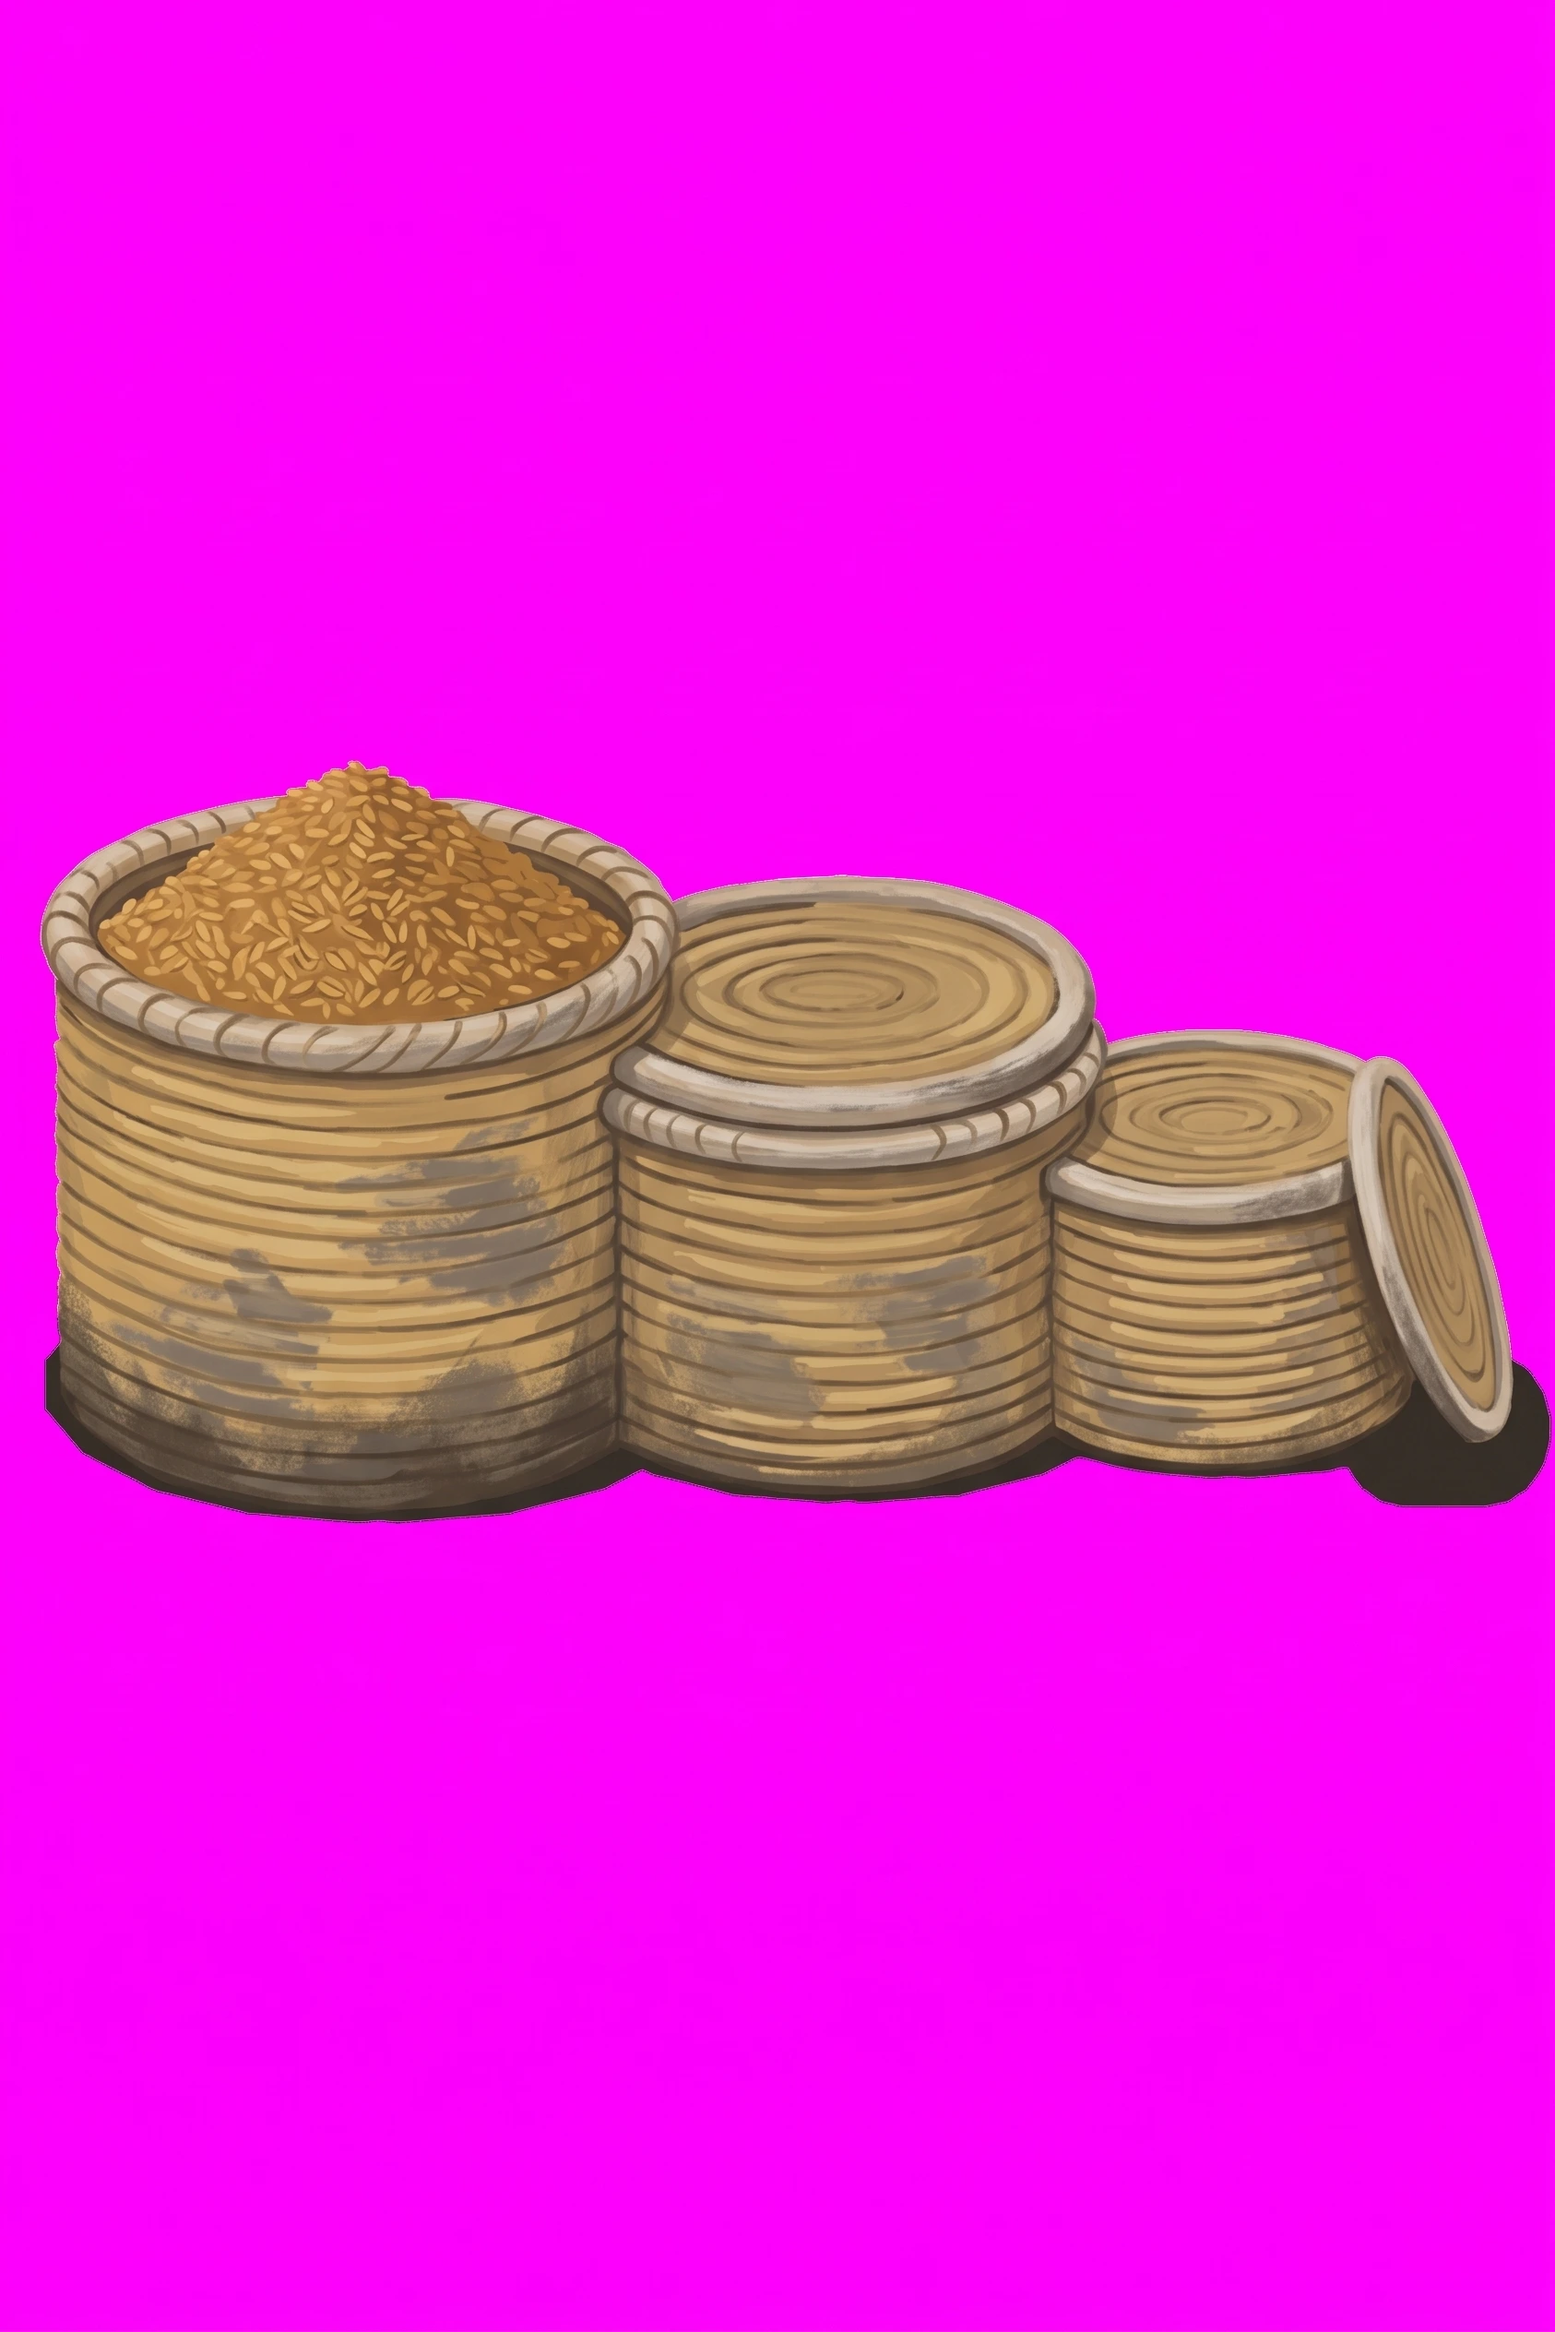
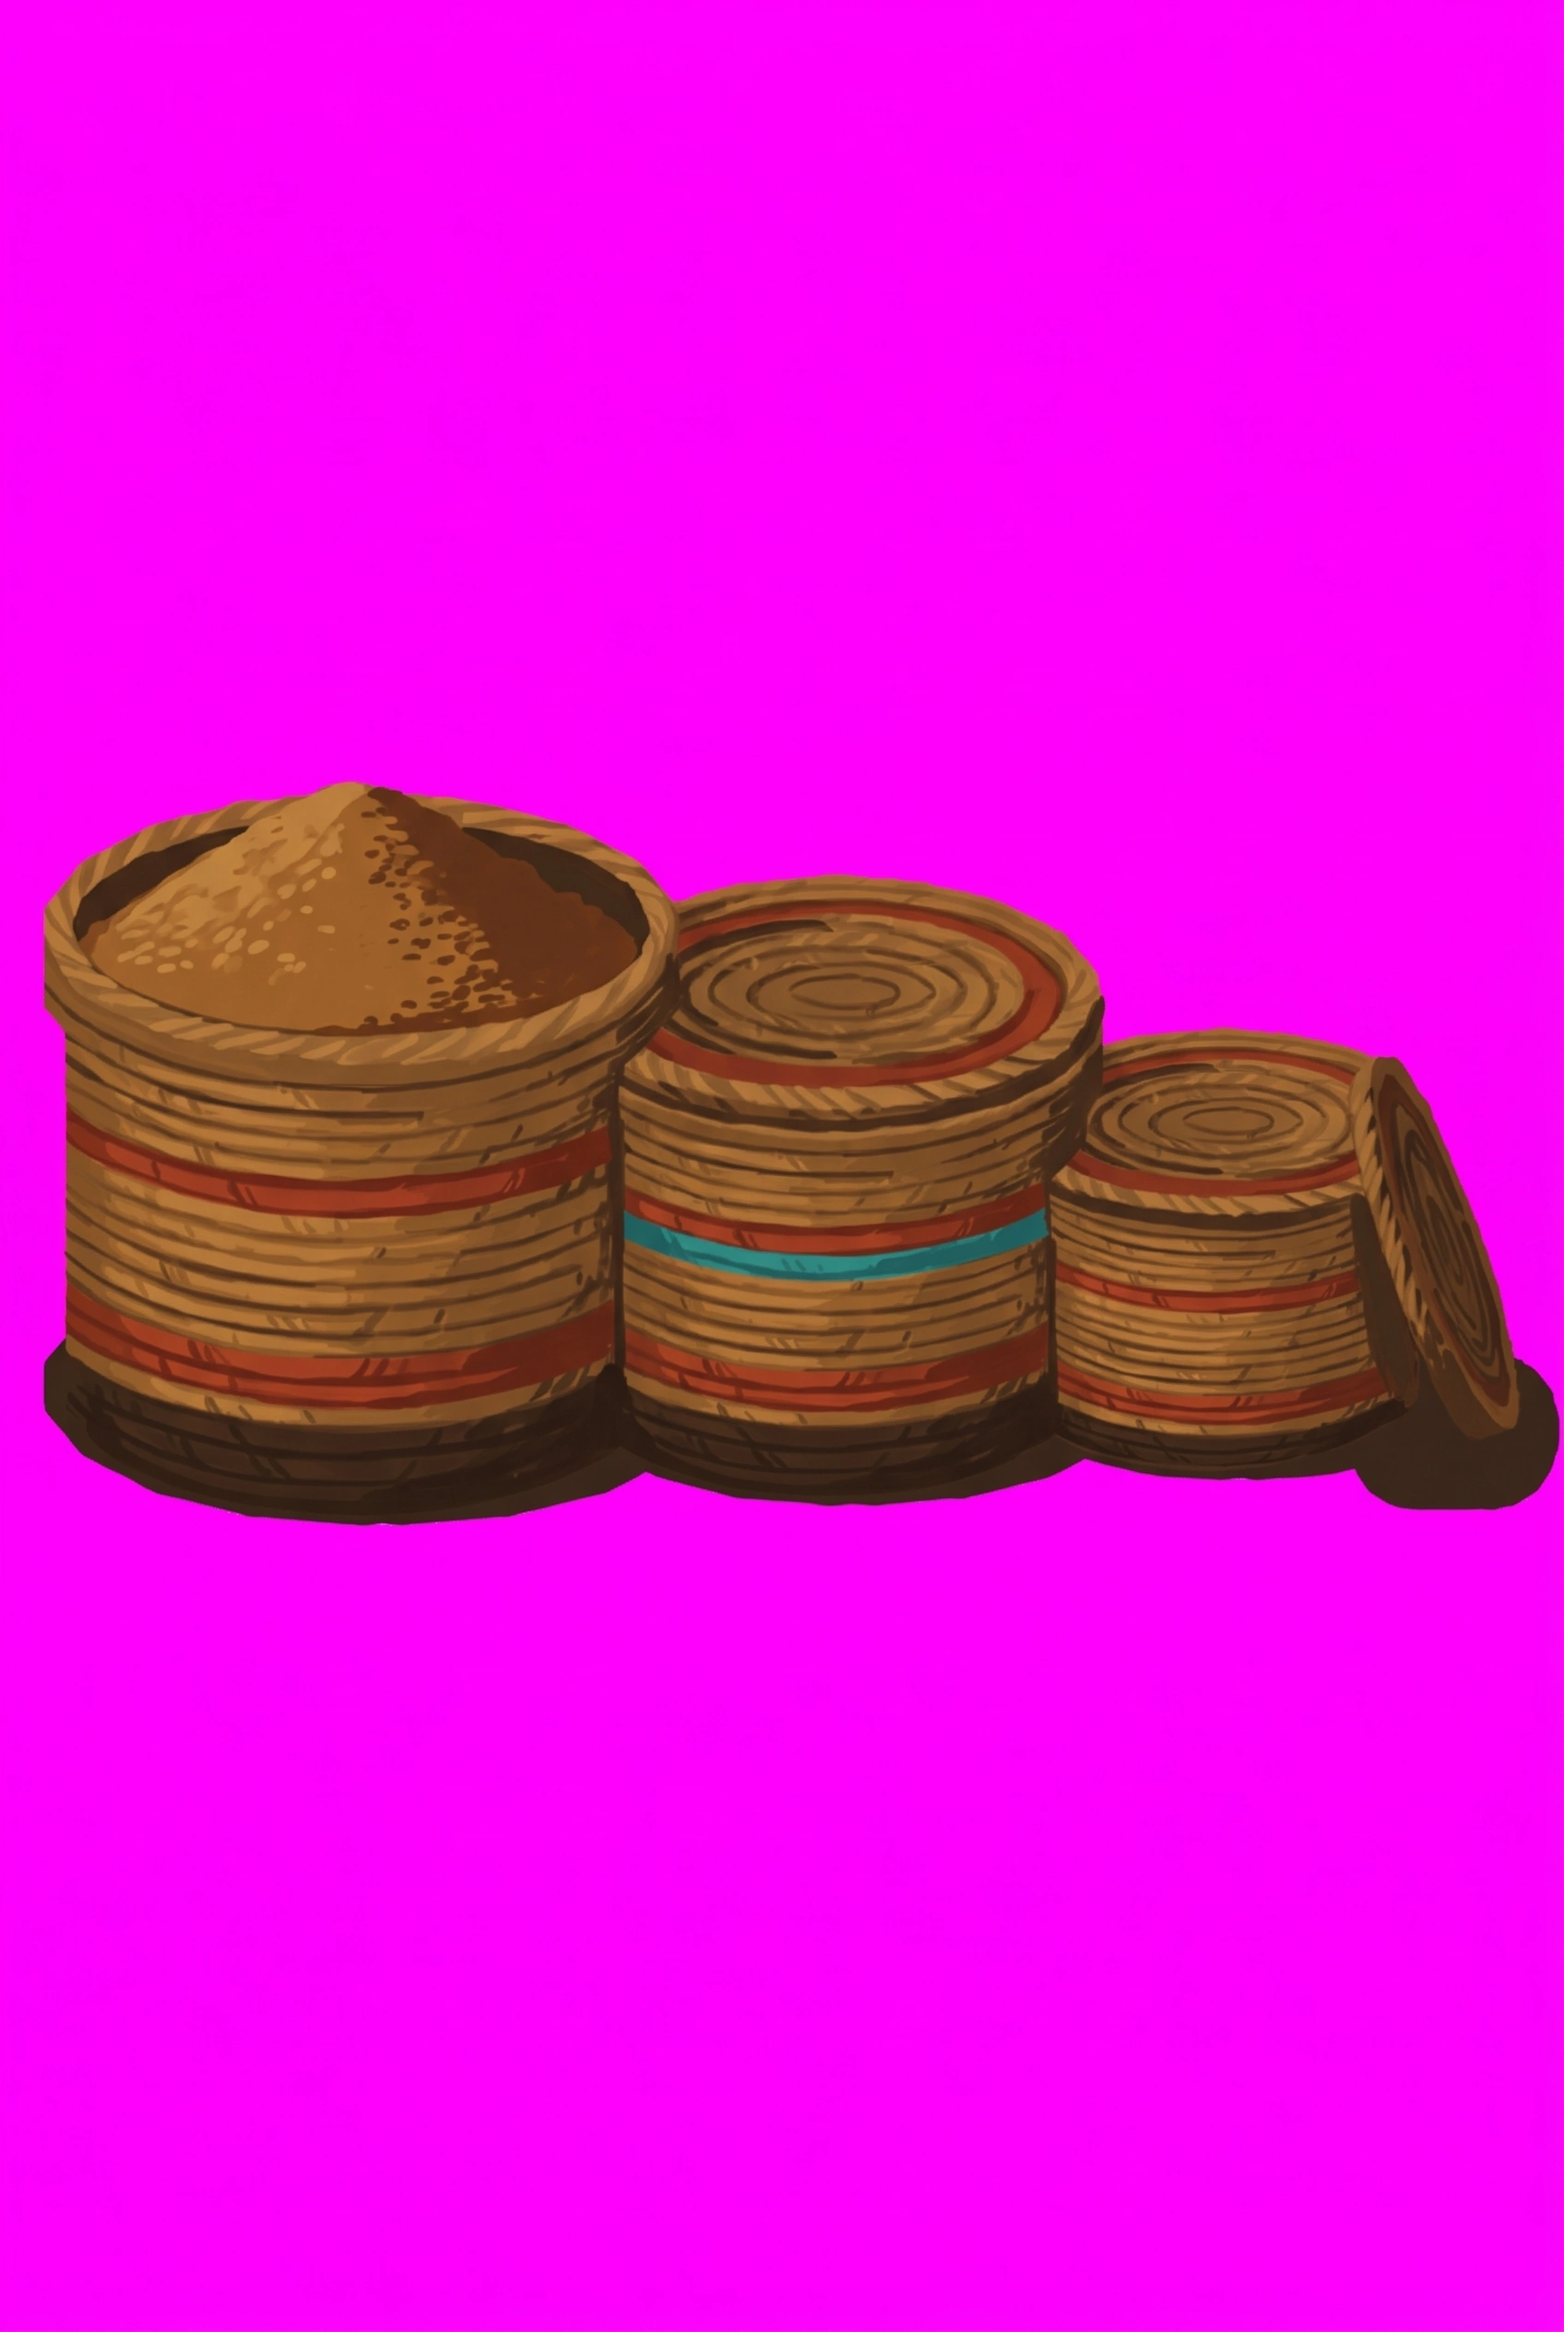
feat: starter's grain baskets repainted, 36 L* off the floor
Claude-Session: https://claude.ai/code/session_01NQk9Q1WZoZfDzoRioyXby1

Changed region(s): [[0.0, 0.3125, 1.0, 0.6562]]

diff --git a/docs/instructions/repaint-queue.md b/docs/instructions/repaint-queue.md
@@ -193,47 +193,6 @@ the shabti is `--mesh=art/masters/meshes/shabti.glb`. `starter-plain.png` is the
 `art/masters/surfaces/starter-floor.webp` scaled to 1024, the crop every `<tier>-plain.png` is. The
 tally board has no scaffold: it attaches its own master.
 
-### `starter/offeringTable-2` — baskets of grain on the floor, the market's second drawing
-
-**Attach:**
-
-1. `~/tile-previews/baskets-starter.png` — the scaffold
-2. `~/tile-previews/starter-plain.png` — the material reference
-
-```
-A wall-less product shot of a single object, painted in flat matte gouache, no background, on pure magenta #FF00FF. Portrait, two units wide by three tall, exactly as the reference. Do not re-compose it into a square. Paint over the reference image itself.
-
-The object: the merchant's goods sold straight off the floor. The big drum at the left with a low mound
-heaped in it is a BASKET of grain; the two lower drums beside it are lidded BASKETS; the small slab
-leaning at the right is a lid set down.
-
-The baskets are coiled palm fibre DYED and stained, not pale straw: their bodies dark honey #9a6a3c, with
-woven bands of red ochre #b8452c and deep umber #5e3a1e round each one, darkest #3a2a1c at the foot where
-they sit on the floor. One basket carries a narrow band of turquoise #2a9d8f. The grain heaped in the
-open basket is warm golden-brown, shadowed #7e3a1a on its far side. The leaning lid is the same dark
-weave.
-
-IT STANDS ON A PALE FLOOR AND MUST READ DARK ON IT. The floor is pale limestone, #d8c8a8. The object as a
-whole is clearly DARKER and more colourful than that: nothing on it larger than a fingertip is lighter
-than terracotta #c0612f, and only the turquoise #2a9d8f may be, in small touches. Its base, its underside
-and every part nearest the floor are its darkest, deep umber #3a2a1c. Nothing on it is white, cream,
-bleached, pale straw or whitewash — a pale part vanishes into the floor.
-
-Keep every edge, every proportion and every silhouette exactly as in the reference image — do not move, resize, straighten, add, remove or restyle any part of it, and do not change the angle it stands at. Paint only material and wear.
-
-The shadow at its foot is part of the picture: paint it #3A2A1C, with no pink and no purple in it at all.
-
-No highlights, no gloss, no rim light, no ground plane, no reflections. Matte throughout, as if lit by one dull lamp. Merchant's storehouse: fired terracotta #c0612f and #7e3a1a, honey-brown timber #9a6a3c and #5e3a1e, red ochre paint #b8452c, turquoise faience #2a9d8f. Saturated and warm — colour that reads from across the room — and never as pale as the floor it stands on.
-```
-
-Then, once the return is in `~/Downloads`:
-
-```sh
-scaffold market --contents=baskets
-yarn import-tile art/masters/props/starter/offeringTable-2.webp --tier=starter --name=offeringTable-2 \
-  --slot=prop --filter=smooth --mask="$OBJ" --seat="$SHADOW" --brightness=0.86 --saturation=0.7
-```
-
 ### `starter/jarRack` — terracotta jars in a dark timber rack
 
 **Attach:**
